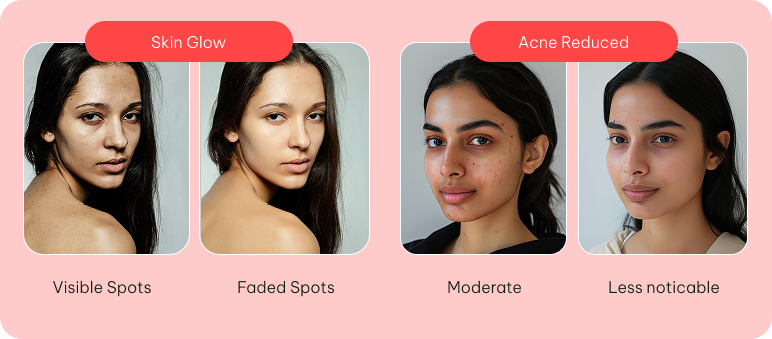
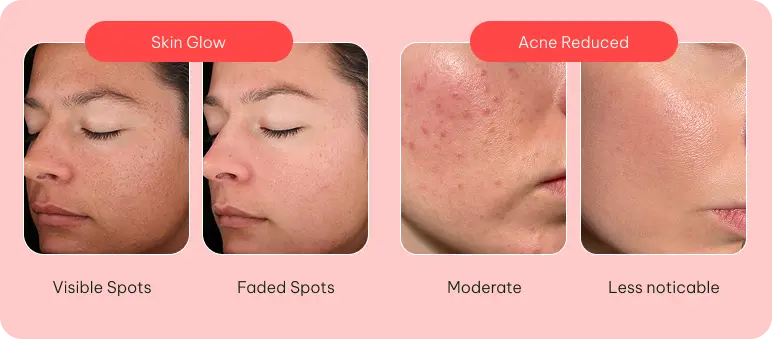
hii

diff --git a/src/app/data/fallbackProducts.ts b/src/app/data/fallbackProducts.ts
@@ -147,6 +147,7 @@ export const fallbackProducts: Product[] = [
       "/assets/img/product-details/Green_3.png",
       "/assets/img/product-details/Green_4.png",
       "/assets/img/product-details/Green_5.png",
+      "/assets/img/product-details/extra-green.webp",
     ],
     actionItems: [
       {
@@ -1053,6 +1054,7 @@ export const fallbackProducts: Product[] = [
       "/assets/img/product-details/Artboard_3.png",
       "/assets/img/product-details/Artboard_4.png",
       "/assets/img/product-details/Artboard_5.png",
+      "/assets/img/product-details/extra-pink.webp",
     ],
     actionItems: [
       {

diff --git a/src/components/home/Toxins.tsx b/src/components/home/Toxins.tsx
@@ -19,7 +19,7 @@ const toxinItems: ToxinItem[] = [
   { img: "/assets/img/clinically.png", text: "Clinically Researched\nActives" },
   { img: "/assets/img/gmp.png", text: "GMP Certified\nManufacturing" },
   { img: "/assets/img/fssai.png", text: "FSSAI\nApproved" },
-  { img: "/assets/img/vegetarian.png", text: "100% Vegetarian\nwith icon" },
+  { img: "/assets/img/vegetarian.png", text: "100% Vegetarian" },
 ];
 
 const Toxins: React.FC = () => {
